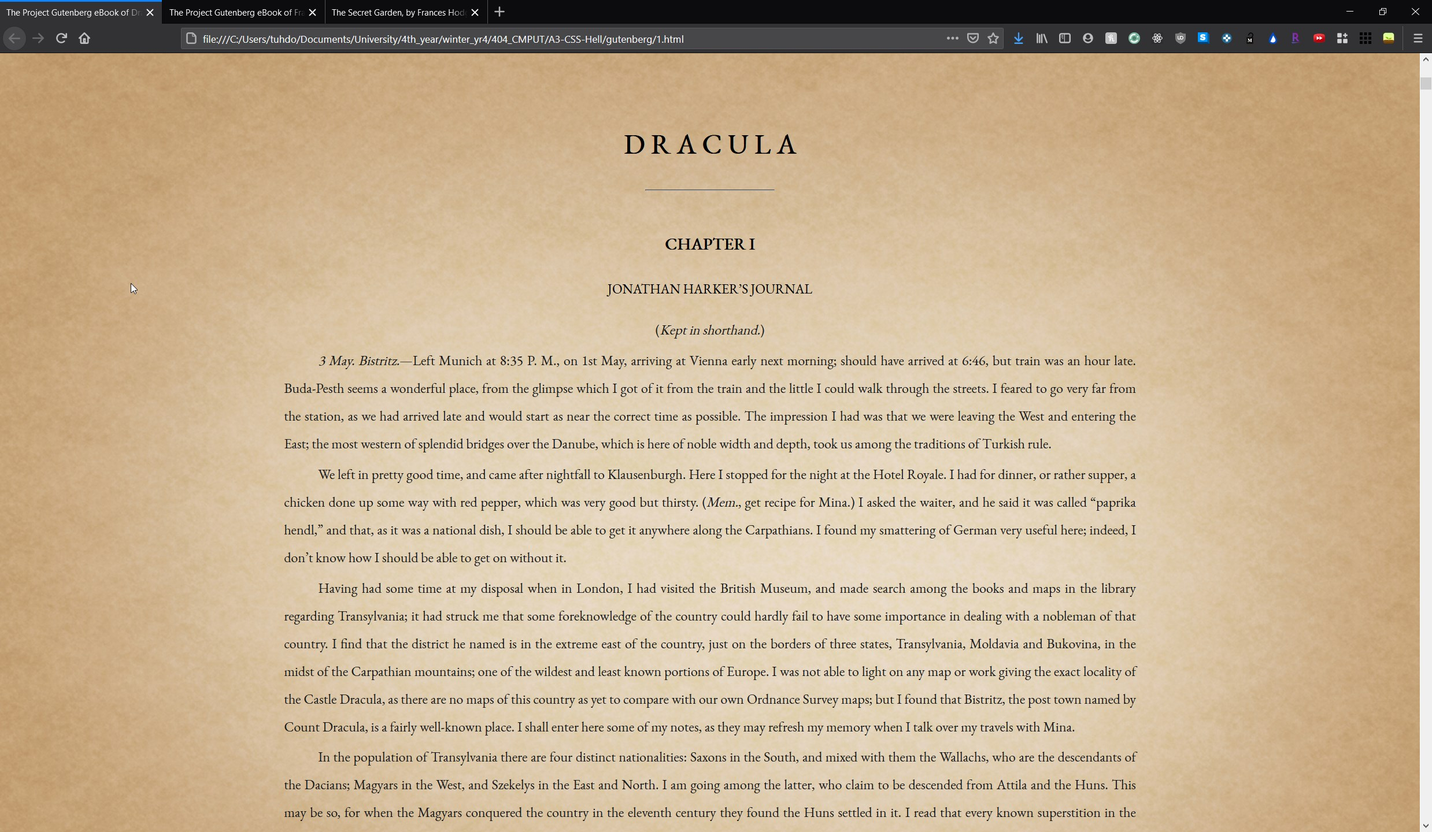
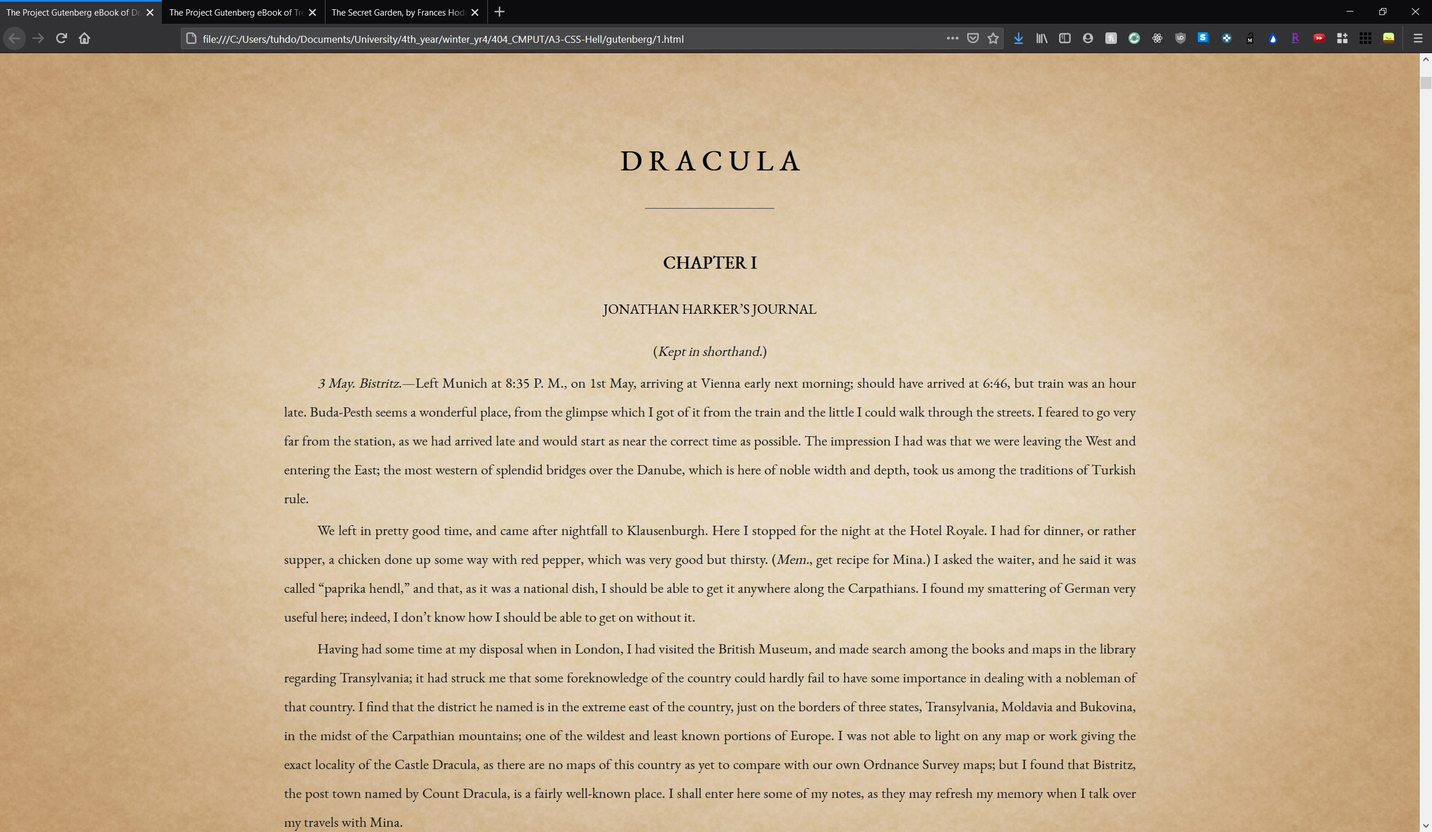
Update some css and screenshots for part 1

diff --git a/gutenberg/1.html b/gutenberg/1.html
@@ -2,7 +2,7 @@
 <html xmlns="http://www.w3.org/1999/xhtml" xml:lang="en" lang="en">
   <head>  
     <link rel="coverpage" src="./1_dracula_by_bram_stoker/images/cover.jpg">
-    <link href="https://fonts.googleapis.com/css2?family=EB+Garamond&family=Lateef&display=swap" rel="stylesheet"> 
+    <link href="https://fonts.googleapis.com/css2?family=EB+Garamond&display=swap" rel="stylesheet"> 
     <meta http-equiv="Content-Type" content="text/html; charset=UTF-8">
     <title>
       The Project Gutenberg eBook of Dracula, by Bram Stoker.

diff --git a/gutenberg/general_style.css b/gutenberg/general_style.css
@@ -4,12 +4,13 @@ body {
     margin-left: 20%;
     margin-right: 20%;
     font-family: 'EB Garamond', serif;
-    font-size: 1.2em;
+    font-size: 1.25em;
 }
 
 p {
     line-height: 2em;
     color: #1b1b1b;
+    text-indent: 2.3em;
 }
 
 p.r {
@@ -39,6 +40,10 @@ a:link{
     background-color: #fff0;
 }
 
+blockquote {
+    text-align: center;
+}
+
 img {
     border: 3px solid black;
     border-radius: 1.5%;
@@ -46,3 +51,7 @@ img {
     max-width: 350px;
 }
 
+figcaption {
+    word-wrap: break-word;
+    text-align: center
+}

diff --git a/gutenberg/2.html b/gutenberg/2.html
@@ -16,7 +16,9 @@
     pre        { font-style: italic; font-size: 100%; margin-left: 10%;}
 
 </style>
-  <link href="./general_style.css" rel="stylesheet" type="text/css"></head>
+  <link href="./general_style.css" rel="stylesheet" type="text/css">
+  <link href="https://fonts.googleapis.com/css2?family=EB+Garamond&display=swap" rel="stylesheet"> 
+</head>
   <body class="vsc-initialized">
 
 <pre>The Project Gutenberg EBook of Treasure Island, by Robert Louis Stevenson

diff --git a/gutenberg/3.html b/gutenberg/3.html
@@ -54,7 +54,9 @@ a:visited {color:blue; text-decoration:none}
 a:hover {color:red}
 
 </style>
-<link href="./general_style.css" rel="stylesheet" type="text/css"></head>
+<link href="./general_style.css" rel="stylesheet" type="text/css">
+<link href="https://fonts.googleapis.com/css2?family=EB+Garamond&display=swap" rel="stylesheet"> 
+</head>
 <body class="vsc-initialized">
 
 <pre>
